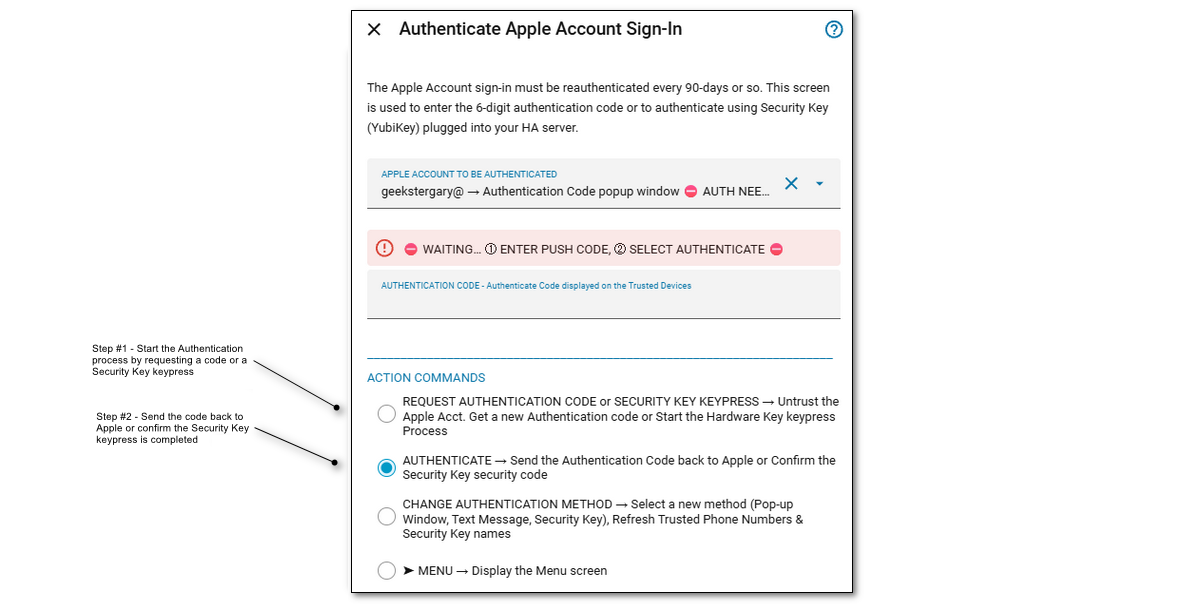
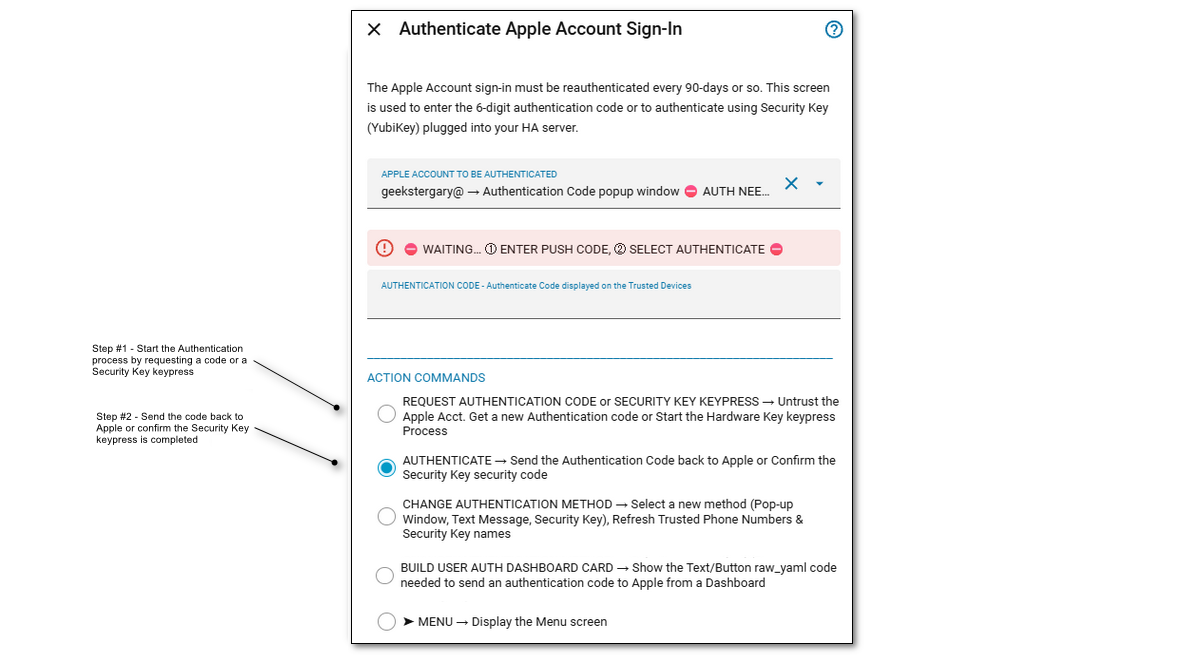
docs v3.8.0

diff --git a/docs/chapters/3_apple-acct-auth.md b/docs/chapters/3_apple-acct-auth.md
@@ -27,7 +27,7 @@ When iCloud3 logs in the first time and then about every 90 days, access to your
 
 
 
-### Authenticate Apple Account Sign-in screens
+## Authenticate Apple Account Sign-in screens
 
 The screen below is used to Authenticate Apple Account access and to configure how you want to do it:
 
@@ -56,14 +56,77 @@ The screen below is used to Authenticate Apple Account access and to configure h
 
   - **Security Keys** - Security Keys are set up on your iPhone/iPad, go to *Settings App > Your Apple Account > Sign-in & Security > Two-Factor Authentication > Security Keys*.
 
-### Change Authentication Method
+## Change Authentication Method
 
  This screen is used to select the authentication method to be used. Only active methods are displayed. It is opened on the *Authenticate Apple Account Sign-in* screen.
 
 ![](../screens/authenticate/apple-acct-auth-change-method.png)
 
-### Apple Did not Send a Code
 
-There may be times when the text messages do not arrive or the push notification window is not being sent. This is a work-around, manual way of authenticating access to your account. Follow the instructions on the screen. It is opened on the *Authenticate Apple Account Sign-in* screen.
 
-![](../screens/authenticate/apple-acct-auth-get-code-applecom.png)
+## Authenticating an Apple Account from a Dashboard Card
+
+- Selected from the Authenticate Apple Account Sign-in Screen *(v3.8.0+ feature)*
+
+Authenticating your Apple Account sign-in is normally done on the Configure > Authenticate Apple Account Sign-in screen. On this screen, you can request and send a code to Apple, authenticate using a Security key and change the authentication method for an Apple Account. This screen is only available to those who have HA Admin privileges. 
+
+This can present several problems authenticating an account:
+
+- If you are using more than one Apple Account and the owners of the other accounts do not have admin privileges.
+- You do not have the Mobile App installed on a device and you do not access to the HA server.
+- You are away from home, only have an iPhone with a small screen and using the Configure screen is difficult.
+
+This feature provides a solution to these problems. With it, you can add a Text/Button entity to a dashboard card for each of your Apple Accounts and use them to request an authentication code, enter the code and send it to Apple for approval. 
+
+### Dashboard Authentication Cards
+
+The Dashboard Cards can only be used when an Apple account needs to be authenticated. Requesting or entering a code when an account does not need to be authenticated will not do anything. Below are dashboard cards that can be created. Instructions to create them are in a later section. 
+
+![](../screens/authenticate/user_auth_dashboard_card.png)
+
+
+
+To authenticate an account:
+
+- **Requesting a cod**e - Press the Press button on the Request Auth Code line. This only works when an account needs to be authenticated. Use this when the code is not displayed on your device or it has expired.
+
+- **Send the Code to App**le - Type the code in the Enter Auth Code line. You can add it to the end of any messages that are displayed. Then press Enter
+
+  
+
+### Build User Authentication Dashboard Card screen
+
+This screen is used to generate the raw_yaml code for these cards.
+
+The Apple Accounts that are displayed on the card is specified using the *Include parameter*. You can:
+
+- Display all Apple accounts on one card
+- Display only a specific Apple Account on a card
+
+Their visibility status is selected using the *Display Mode paramete*r. They can:
+
+- The card shows on the Dashboard all tie time
+- The card is only visible when an authentication needs to be done
+
+![](../screens/authenticate/user_auth_build_dashboard.png)
+
+
+
+### Creating the User Authentication Card on a Dashboard screen
+
+1. Opening the Configure > Authenticate Apple Sign-in screen > Build User Authentication Dashboard Card. The raw_yaml code for All Devices, Always Display is displayed on the screen.
+2. To change the format:
+   1. select the **Include parameter**, **Display Mode parameter**
+   2. **Refresh**. The new raw_yaml code is displayed.
+3. To copy the raw_yaml code:
+   1. Click anywhere in the text area.
+   2. **Ctrl+A or ⌘+A** to Select the text, then **Ctrl+C or ⌘+C** to Copy the text.
+4. Close the iCloud3 Configure screen (Exit or click the 'X' in the upper-left corner).
+5. **Go to the Dashboard** you want to add the User Authentication Card, go into **Edit mode**, Click **+Add Card**.
+6. Select Manual Card (scroll to the bottom).
+   1. Select the text in the area on the left (it probably has *type: '  '* ). 
+   2. **Ctrl+V or ⌘+V** to paste the raw_yaml code
+7. Click **Save** and then **Done**
+
+
+
